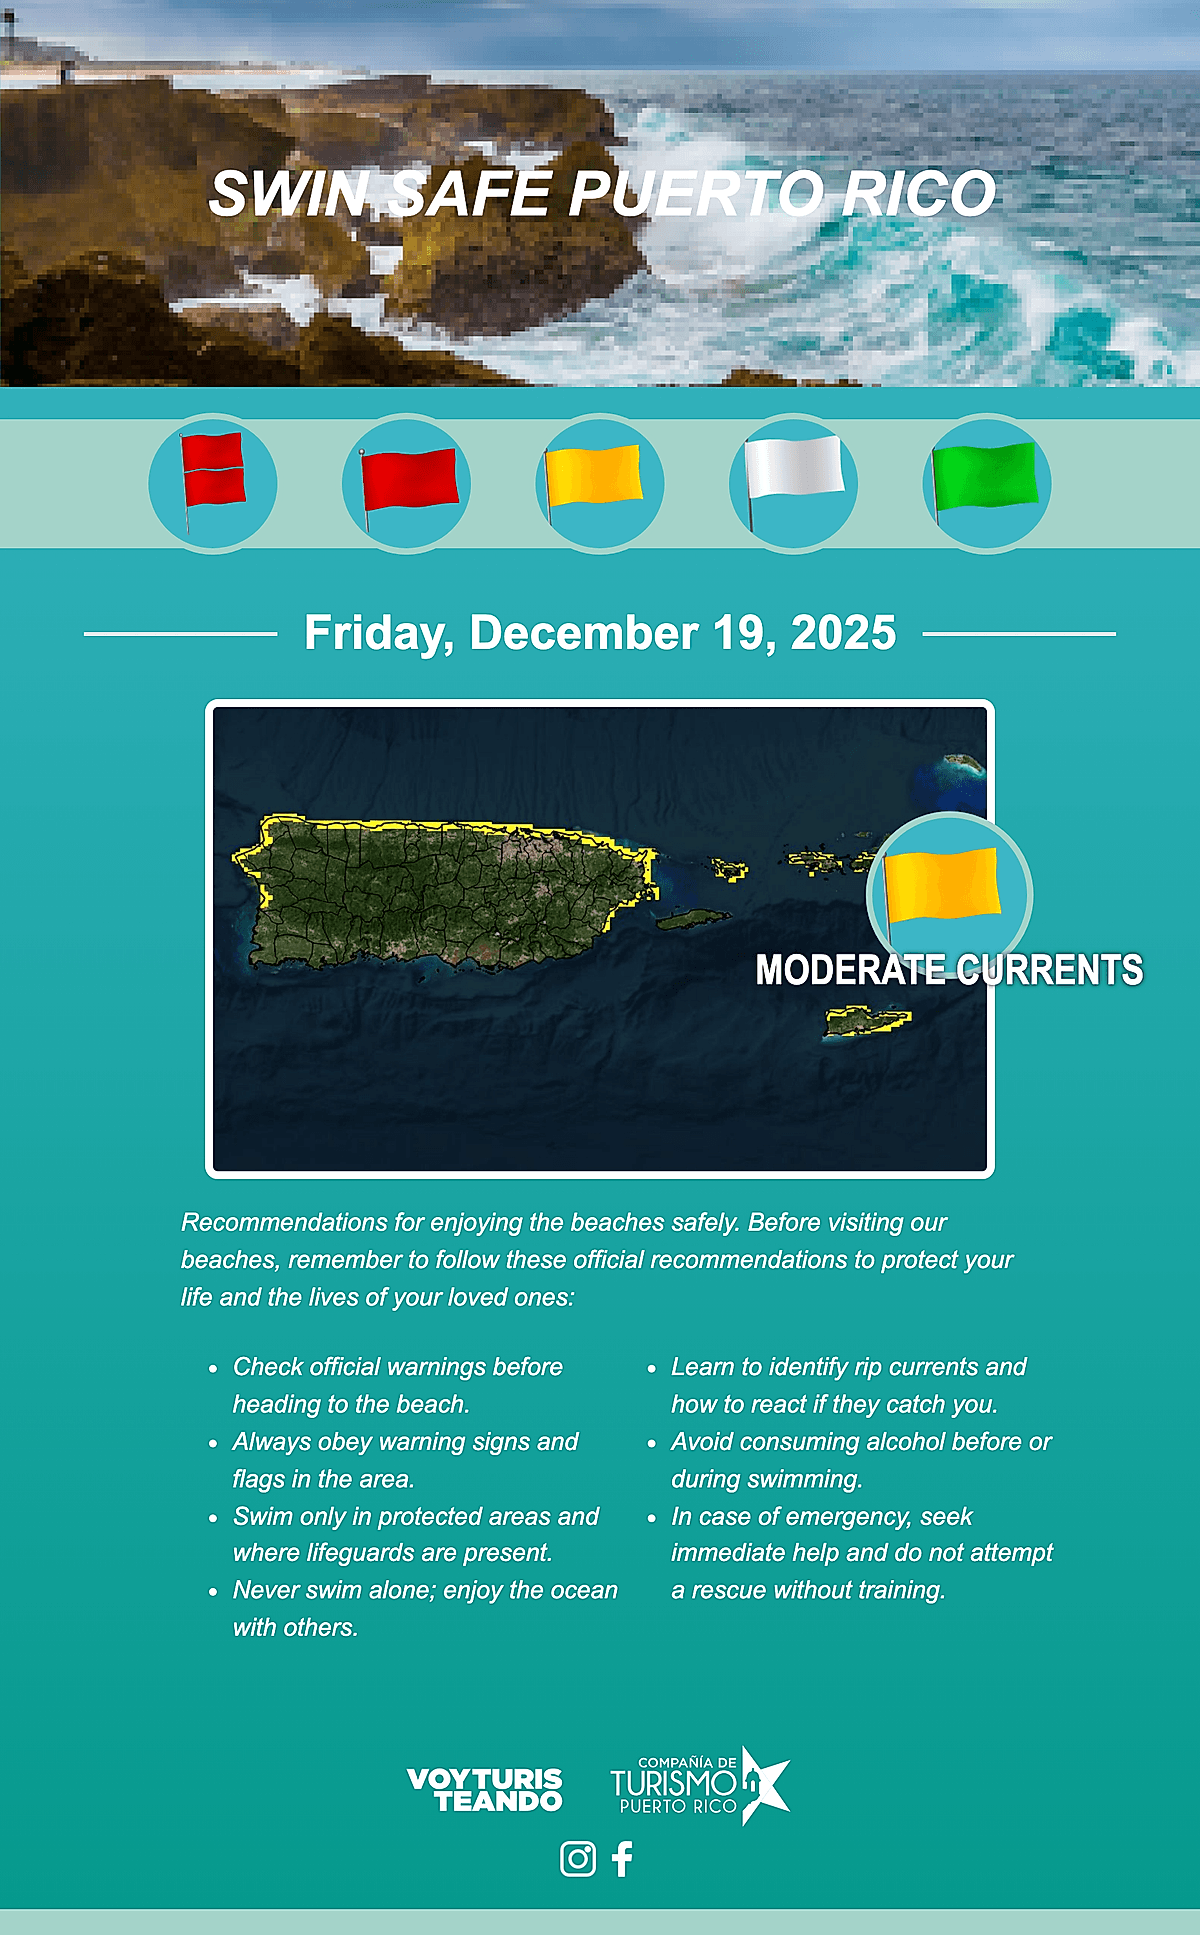
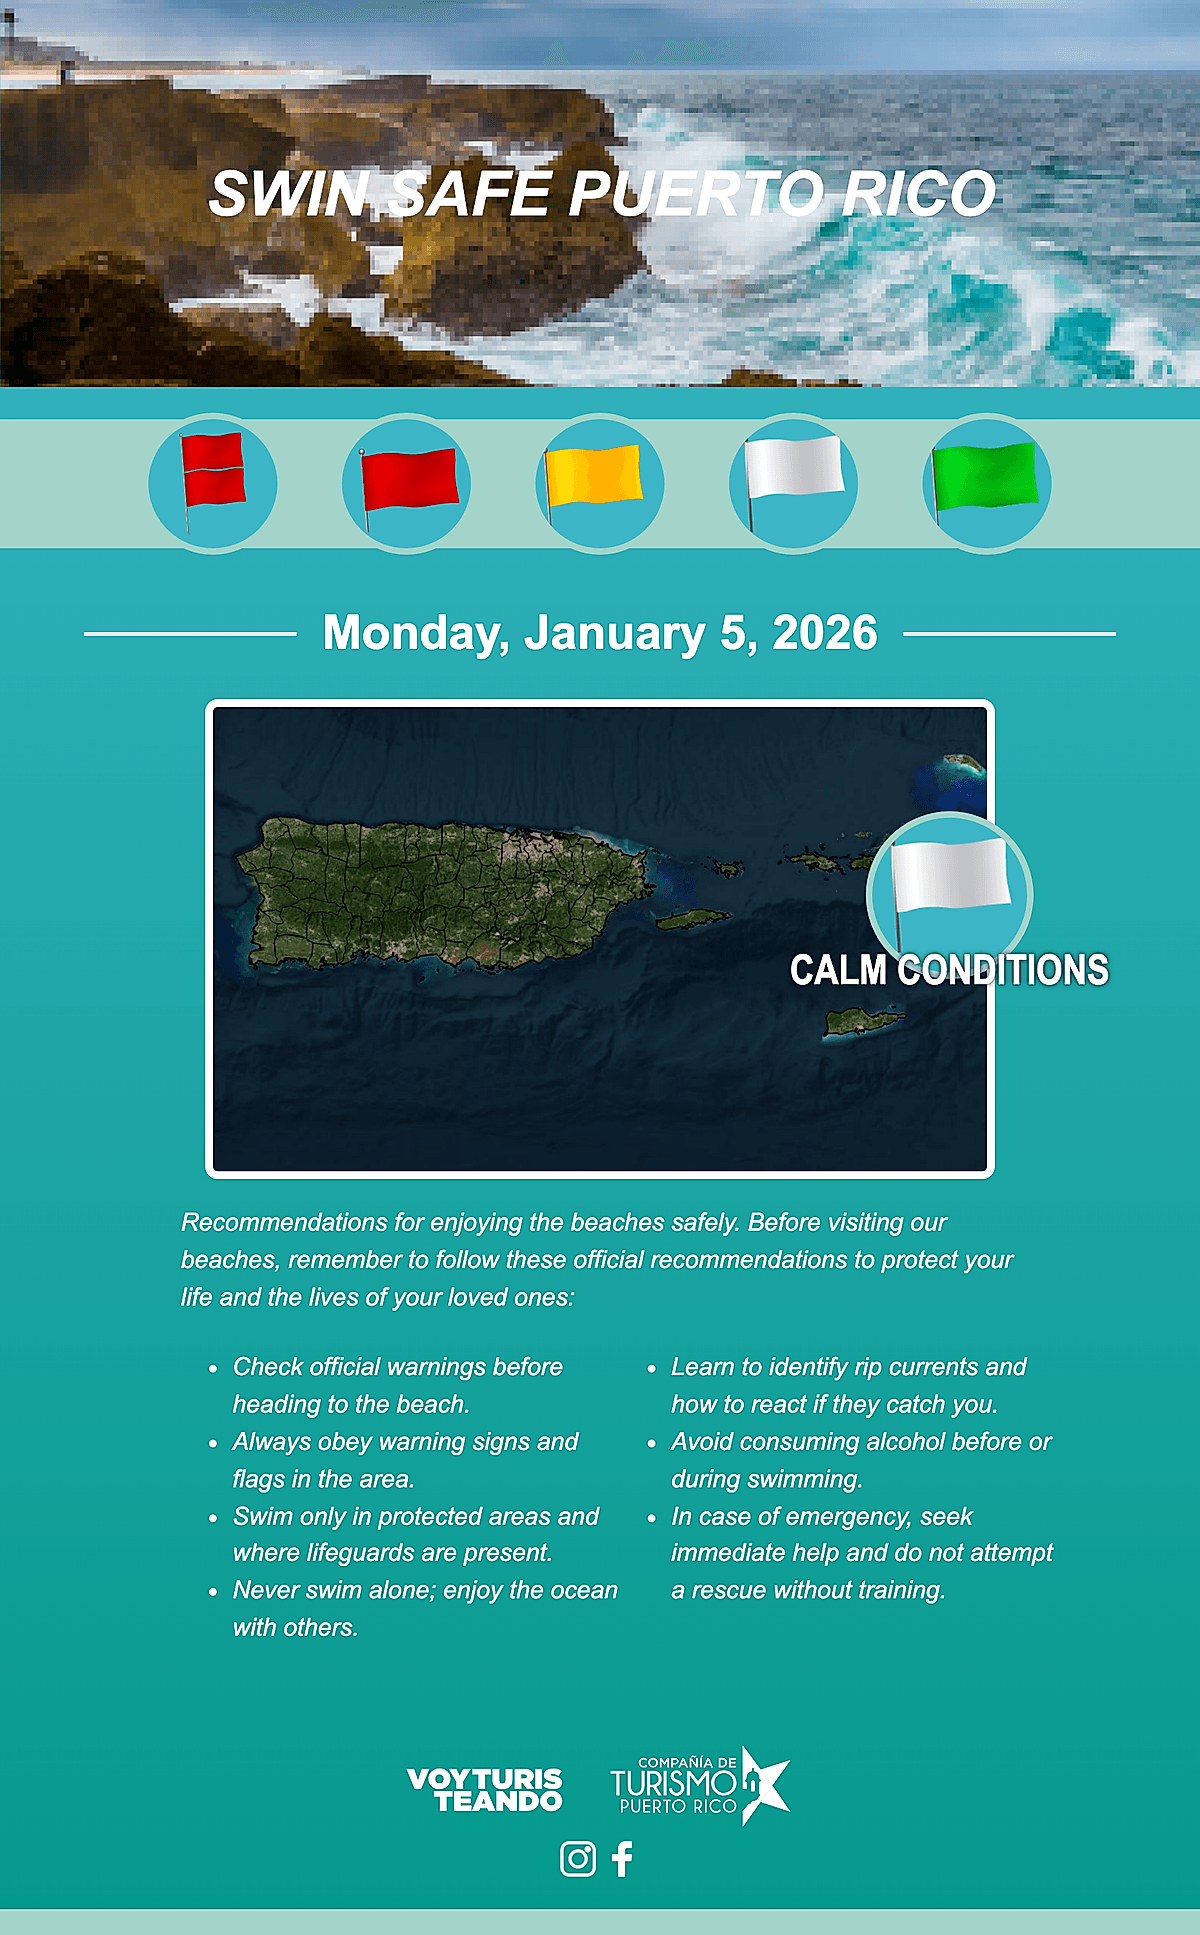
fix(bugs-flag-calm)

diff --git a/public/index.html b/public/index.html
@@ -47,7 +47,7 @@
         <div class="date-container">
             <div class="date-banner">
                 <div class="date-line date-line-left"></div>
-                <span class="date-text">Friday, December 19, 2025</span>
+                <span class="date-text">Monday, January 5, 2026</span>
                 <div class="date-line date-line-right"></div>
             </div>
         </div>
@@ -65,7 +65,7 @@
                 </div>
 
                 <!-- Estado: Amarilla (Oculta por defecto) -->
-                <div class="flag-status-item status-overlay" id="status-yellow">
+                <div class="flag-status-item status-overlay hidden" id="status-yellow">
                     <div class="flag-circle">
                         <img src="flags/amarilla.png" alt="Yellow Flag">
                     </div>
@@ -73,7 +73,7 @@
                 </div>
 
                 <!-- Estado: Blanca (Oculta por defecto) -->
-                <div class="flag-status-item status-overlay hidden" id="status-white">
+                <div class="flag-status-item status-overlay" id="status-white">
                     <div class="flag-circle">
                         <img src="flags/blanca.png" alt="White Flag">
                     </div>

diff --git a/src/services/HTMLGeneratorService.ts b/src/services/HTMLGeneratorService.ts
@@ -29,8 +29,8 @@ export class HTMLGeneratorService {
    * Cualquier presencia mínima de color activa la alerta
    */
   determineAlertLevel(detection: ColorDetectionResult): AlertStatus {
-    // Umbral mínimo: cualquier presencia > 0.01% activa la alerta
-    const minThreshold = 0.01;
+    // Umbral mínimo: se aumenta a 0.5% para evitar falsos positivos por ruido en la imagen
+    const minThreshold = 0.5;
 
     // Prioridad 1: Si hay CUALQUIER presencia de rojo → Bandera ROJA
     if (detection.redPercentage > minThreshold) {
